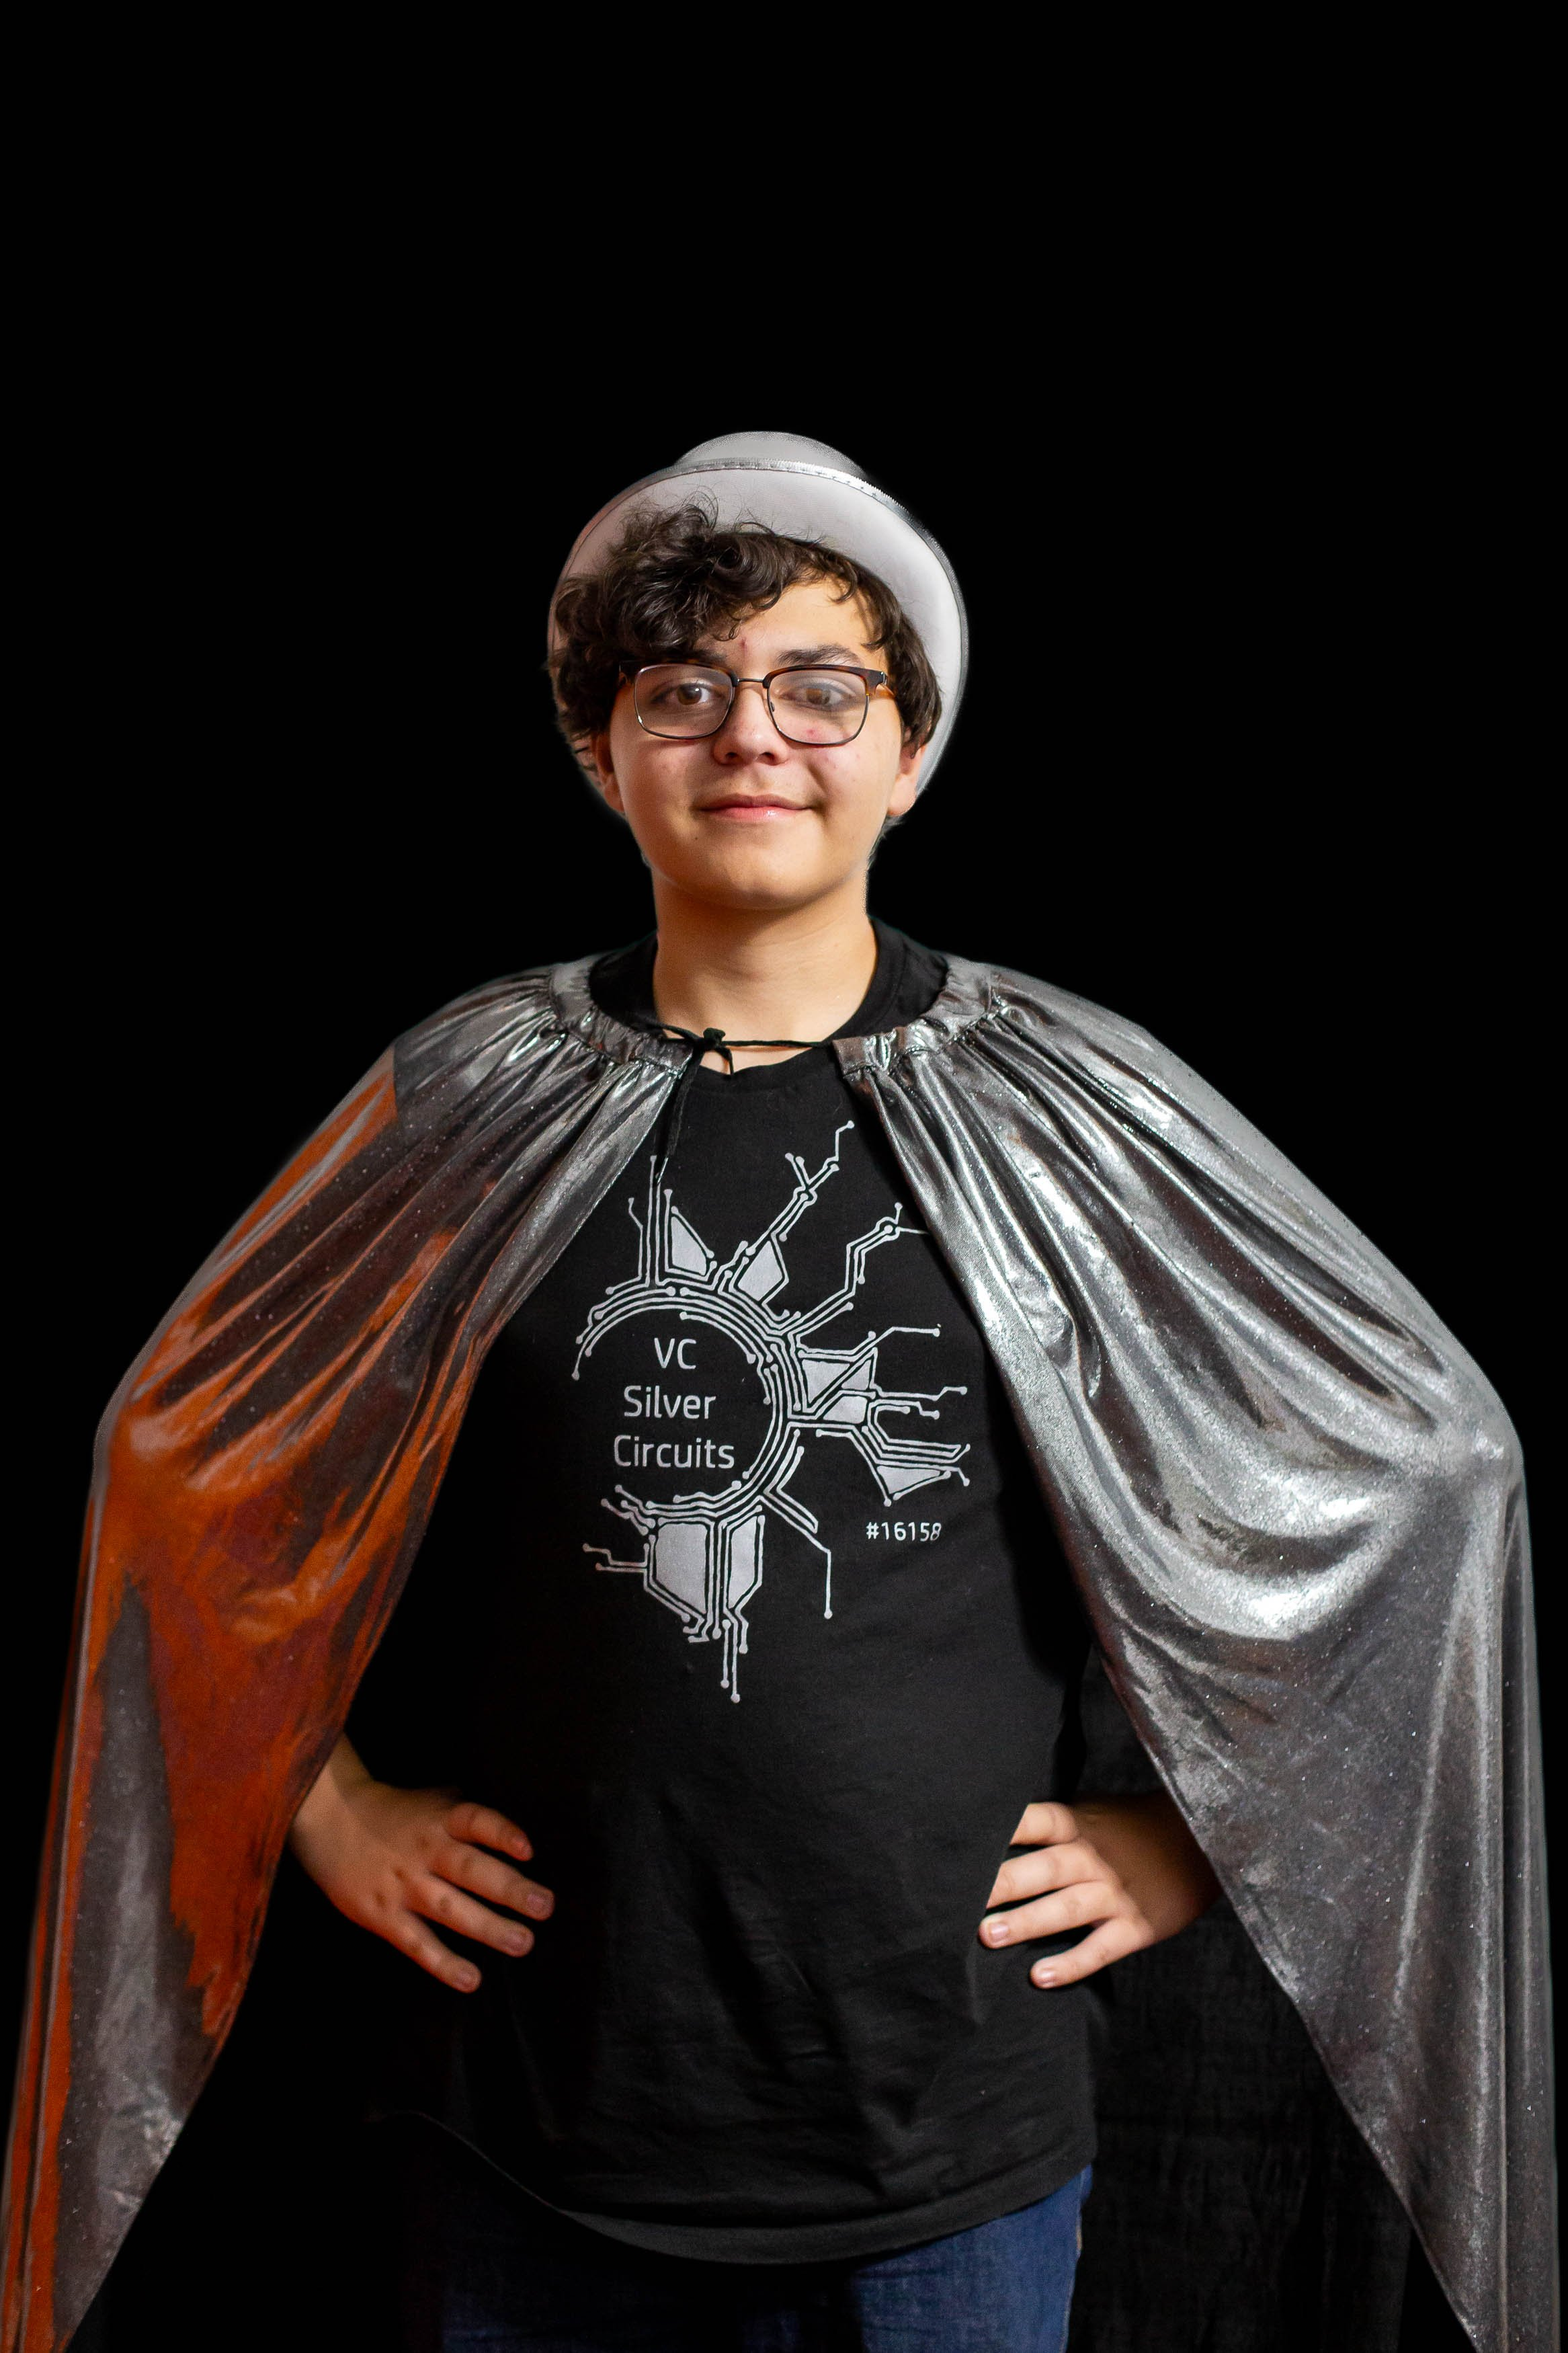
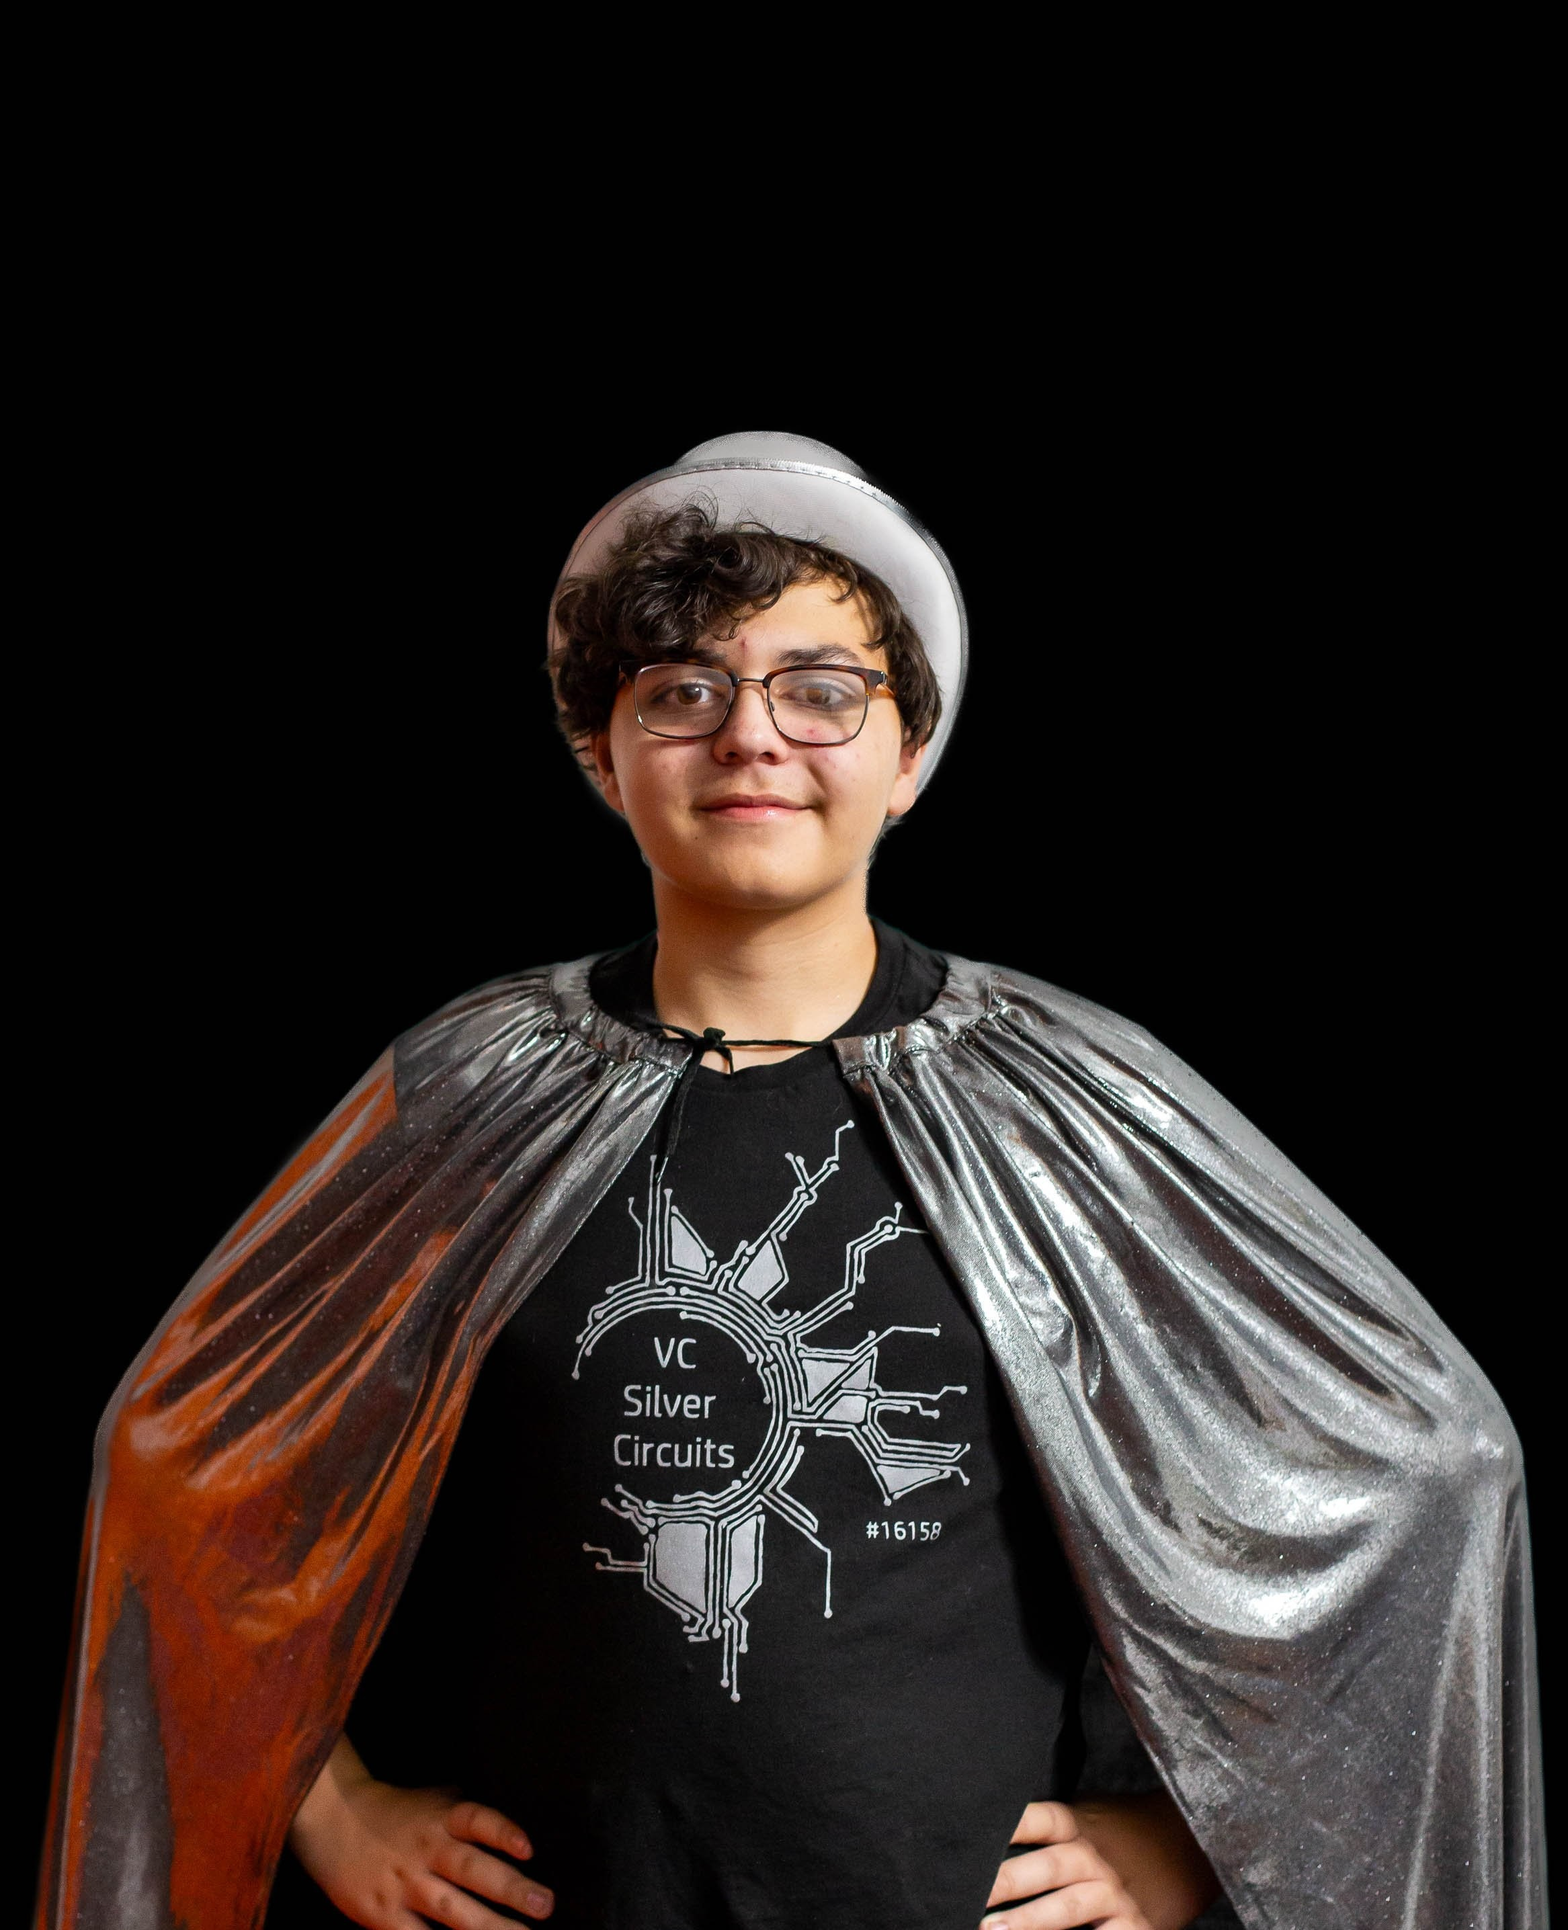
feat: consolidate gallery and portfolio, update cropping of team member pictures, update general stuff

diff --git a/src/pages/Portfolio.tsx b/src/pages/Portfolio.tsx
@@ -1,0 +1,121 @@
+import { FC, useState } from "react";
+import { motion } from "framer-motion";
+
+import img2021_1 from "@/assets/Gallery/2021/1.webp";
+import img2021_2 from "@/assets/Gallery/2021/2.webp";
+import img2021_3 from "@/assets/Gallery/2021/3.webp";
+import img2021_4 from "@/assets/Gallery/2021/4.webp";
+
+import img2022_1 from "@/assets/Gallery/2022/1.webp";
+import img2022_2 from "@/assets/Gallery/2022/2.webp";
+import img2022_3 from "@/assets/Gallery/2022/3.webp";
+import img2022_4 from "@/assets/Gallery/2022/4.webp";
+
+import img2023_1 from "@/assets/Gallery/2023/1.webp";
+import img2023_2 from "@/assets/Gallery/2023/2.webp";
+import img2023_3 from "@/assets/Gallery/2023/3.webp";
+import img2023_4 from "@/assets/Gallery/2023/4.webp";
+
+import img2024_1 from "@/assets/Gallery/2024/1.webp";
+import img2024_2 from "@/assets/Gallery/2024/2.webp";
+import img2024_3 from "@/assets/Gallery/2024/3.webp";
+import img2024_4 from "@/assets/Gallery/2024/4.webp";
+
+const seasons = [
+  {
+    title: "2024–2025 Season",
+    images: [img2024_1, img2024_2, img2024_3, img2024_4],
+    achievements: [
+      "Lobster Cup International – Division Winning Alliance Captain, Finalist Alliance Captain",
+      "Nevada Championship – 1st place (quals), Inspire Award Winner, Finalist Alliance Captain",
+      "NV Northern League Tournament – 1st place (quals), Dean's List Semifinalist (Tucker Knight), Inspire Award Winner, Winning Alliance Captain",
+      "NV Northern League Meets 1N–6N – Multiple qualifications, eliminations, and placements; top performances in all events",
+      "NV Northern Scrimmage – 1st place (quals), top scores in qualification matches",
+      "FIRST World Championship – Jemison Division – 29th place (quals), Winning Alliance 2nd Pick",
+    ],
+  },
+  {
+    title: "2023–2024 Season",
+    images: [img2023_1, img2023_2, img2023_3, img2023_4],
+    achievements: [
+      "NV Northern League Tournament: Inspire Award, Promote Award, Winning Alliance 1st pick, 2 Dean’s List Semi-Finalists",
+      "Nevada Championship: Inspire Award, Semi-Final Alliance Captain, Dean’s List Finalist",
+    ],
+  },
+  {
+    title: "2022–2023 Season",
+    images: [img2022_1, img2022_2, img2022_3, img2022_4],
+    achievements: [
+      "NV Northern League Tournament: 2 Dean’s List Semi-Finalists, Inspire Award 2nd Place, Think Award, Winning Alliance – Captain",
+      "Nevada Championship: Compass Award 2nd Place, Innovate Award sponsored by Raytheon Technologies 2nd Place, Inspire Award, Promote Award 2nd Place, Think Award 2nd Place, Winning Alliance – Captain",
+      "FIRST Championship – Houston – World Championship – Edison Division: Motivate Award",
+    ],
+  },
+  {
+    title: "2021–2022 Season",
+    images: [img2021_1, img2021_2, img2021_3, img2021_4],
+    achievements: [
+      "NV Northern League Tournament: Inspire Award 2nd Place, Think Award, Winning Alliance – Captain",
+      "Nevada State Championship: Finalist Alliance – Captain, Inspire Award, Think Award 3rd Place",
+    ],
+  },
+];
+
+const TeamPortfolio: FC = () => {
+  const [openIndex, setOpenIndex] = useState<number | null>(null);
+
+  return (
+    <div className="container mx-auto px-4 pt-20 pb-12 bg-black text-white">
+      <h1 className="text-4xl font-bold text-center mb-12">Team Portfolio</h1>
+
+      {seasons.map((season, index) => (
+        <motion.section
+          key={index}
+          className="mb-16 bg-gray-900 p-6 rounded-xl shadow-md shadow-gray-800/50 border border-gray-700"
+          initial={{ opacity: 0, y: 30 }}
+          animate={{ opacity: 1, y: 0 }}
+          transition={{ delay: index * 0.2, duration: 0.6 }}
+        >
+          <h2 className="text-2xl font-semibold mb-6 text-white">{season.title}</h2>
+
+          <div className="grid grid-cols-1 sm:grid-cols-2 md:grid-cols-4 gap-4 mb-6">
+            {season.images.map((img, idx) => (
+              <motion.img
+                key={idx}
+                src={img}
+                alt={`${season.title} Image ${idx + 1}`}
+                className="w-full h-48 object-cover rounded-lg cursor-pointer transition-transform duration-300 hover:scale-105 hover:brightness-110"
+              />
+            ))}
+          </div>
+
+          <div>
+            <button
+              onClick={() =>
+                setOpenIndex(openIndex === index ? null : index)
+              }
+              className="w-full text-left font-medium text-lg mb-2 py-2 px-4 bg-gray-800 text-white rounded-lg border border-gray-700 hover:bg-gray-700 transition-colors duration-200"
+            >
+              {openIndex === index ? "Hide Achievements" : "View Achievements"}
+            </button>
+
+            {openIndex === index && (
+              <motion.ul
+                initial={{ opacity: 0, height: 0 }}
+                animate={{ opacity: 1, height: "auto" }}
+                transition={{ duration: 0.5 }}
+                className="list-disc pl-6 space-y-2 mt-4 text-gray-300"
+              >
+                {season.achievements.map((achievement, idx) => (
+                  <li key={idx}>{achievement}</li>
+                ))}
+              </motion.ul>
+            )}
+          </div>
+        </motion.section>
+      ))}
+    </div>
+  );
+};
+
+export default TeamPortfolio;

diff --git a/src/components/Navigation.tsx b/src/components/Navigation.tsx
@@ -19,14 +19,14 @@ const Navigation = () => {
     { href: "/into-the-deep-robot", label: "Robots" },
     { href: "/media", label: "Media" },
     { href: "/events", label: "Events" },
-    { href: "/contact", label: "Contact" },
+    { href: "/contact", label: "Contact/Donate" },
   ];
 
   const isActive = (path: string) => {
     if (path === "/") return location.pathname === "/";
 
     if (path === "/team") {
-      return location.pathname.startsWith("/team") || location.pathname.startsWith("/gallery");
+      return location.pathname.startsWith("/team") || location.pathname.startsWith("/portfolio");
     }
 
     if (path === "/into-the-deep-robot") {
@@ -91,7 +91,7 @@ const Navigation = () => {
                       <Link to="/team">Our Members</Link>
                     </DropdownMenuItem>
                     <DropdownMenuItem asChild>
-                      <Link to="/gallery">Gallery</Link>
+                      <Link to="/portfolio">Portfolio</Link>
                     </DropdownMenuItem>
                   </DropdownMenuContent>
                 </DropdownMenu>
@@ -156,7 +156,7 @@ const Navigation = () => {
                         <Link to="/team">Our Members</Link>
                       </Button>
                       <Button variant="ghost" className="justify-start" asChild>
-                        <Link to="/gallery">Gallery</Link>
+                        <Link to="/portfolio">Portfolio</Link>
                       </Button>
                     </div>
                   </div>

diff --git a/src/App.tsx b/src/App.tsx
@@ -34,6 +34,7 @@ import itd1 from "@/assets/RobotPhotos/ITDRobot-1.jpg";
 import itd2 from "@/assets/RobotPhotos/ITDRobot-2.jpg";
 import cs1 from "@/assets/RobotPhotos/centerstage-robot-1.jpg";
 import cs2 from "@/assets/RobotPhotos/centerstage-robot-2.png";
+import TeamPortfolio from "./pages/Portfolio";
 
 const preloadImages = (images: string[]) => {
   images.forEach((src) => {
@@ -102,7 +103,7 @@ const App = () => {
             <Route path="/center-stage-robot" element={<CSRobot />} />
             <Route path="/power-play-robot" element={<PPlayRobot />} />
             <Route path="/media" element={<Media />} />
-            <Route path="/gallery" element={<Gallery />} />
+            <Route path="/portfolio" element={<TeamPortfolio />} />
             <Route path="/events" element={<Events />} />
             <Route path="/contact" element={<Contact />} />
             <Route path="*" element={<NotFound />} />

diff --git a/src/pages/Contact.tsx b/src/pages/Contact.tsx
@@ -43,7 +43,7 @@ const Contact = () => {
 
   const supportLinks = [
     { name: "Venmo", url: "https://venmo.com/u/SilverCircuits16158", description: "Support us via Venmo", color: "text-blue-400" },
-    { name: "GoFundMe", url: "https://gofund.me/cb49a9f8", description: "Contribute to our team goals", color: "text-green-400" },
+    { name: "GoFundMe", url: "https://gofund.me/e094b3bd", description: "Contribute to our team goals", color: "text-green-400" },
     { name: "PayPal", url: "https://www.paypal.com/US/fundraiser/charity/4735879", description: "Donate via PayPal", color: "text-blue-500" }
   ];
 

diff --git a/src/pages/Team.tsx b/src/pages/Team.tsx
@@ -72,7 +72,7 @@ const Team = () => {
         <div className="text-center mb-16 circuit-bg p-12 rounded-2xl">
           <h1 className="text-5xl font-bold mb-6 gradient-text">Meet Our Team</h1>
           <p className="text-xl text-muted-foreground max-w-3xl mx-auto">
-            These are our passionate individuals who make up the VC Silver Circuits, each bringing unique skills and dedication to our robotics journey.
+            These are the passionate individuals who make up the VC Silver Circuits, each bringing unique skills and dedication to our robotics journey.
           </p>
         </div>
 
